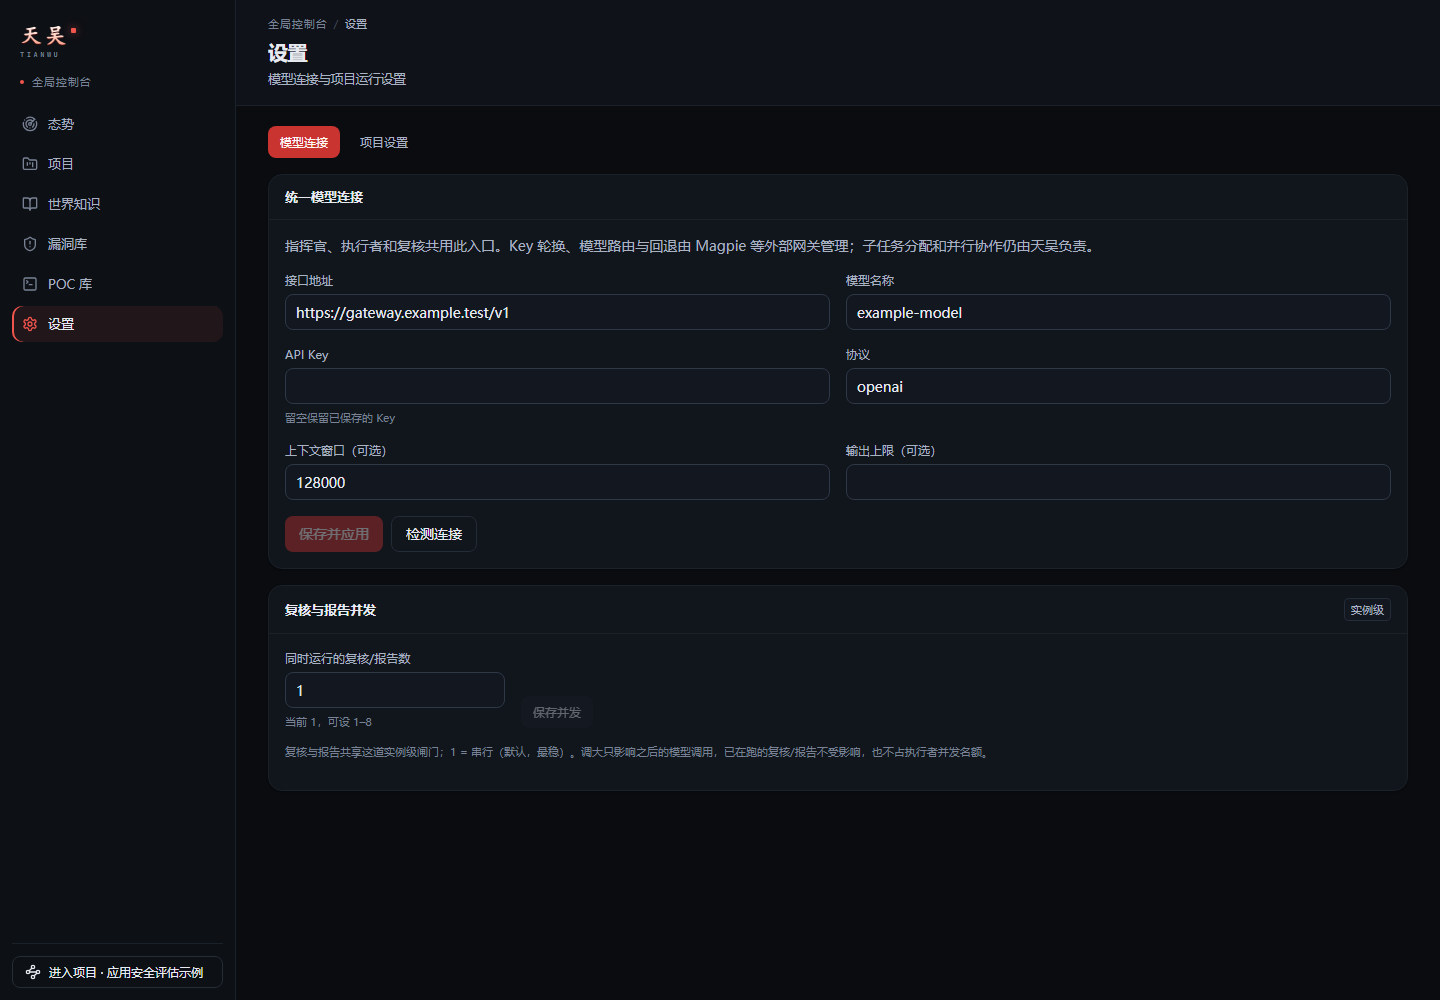
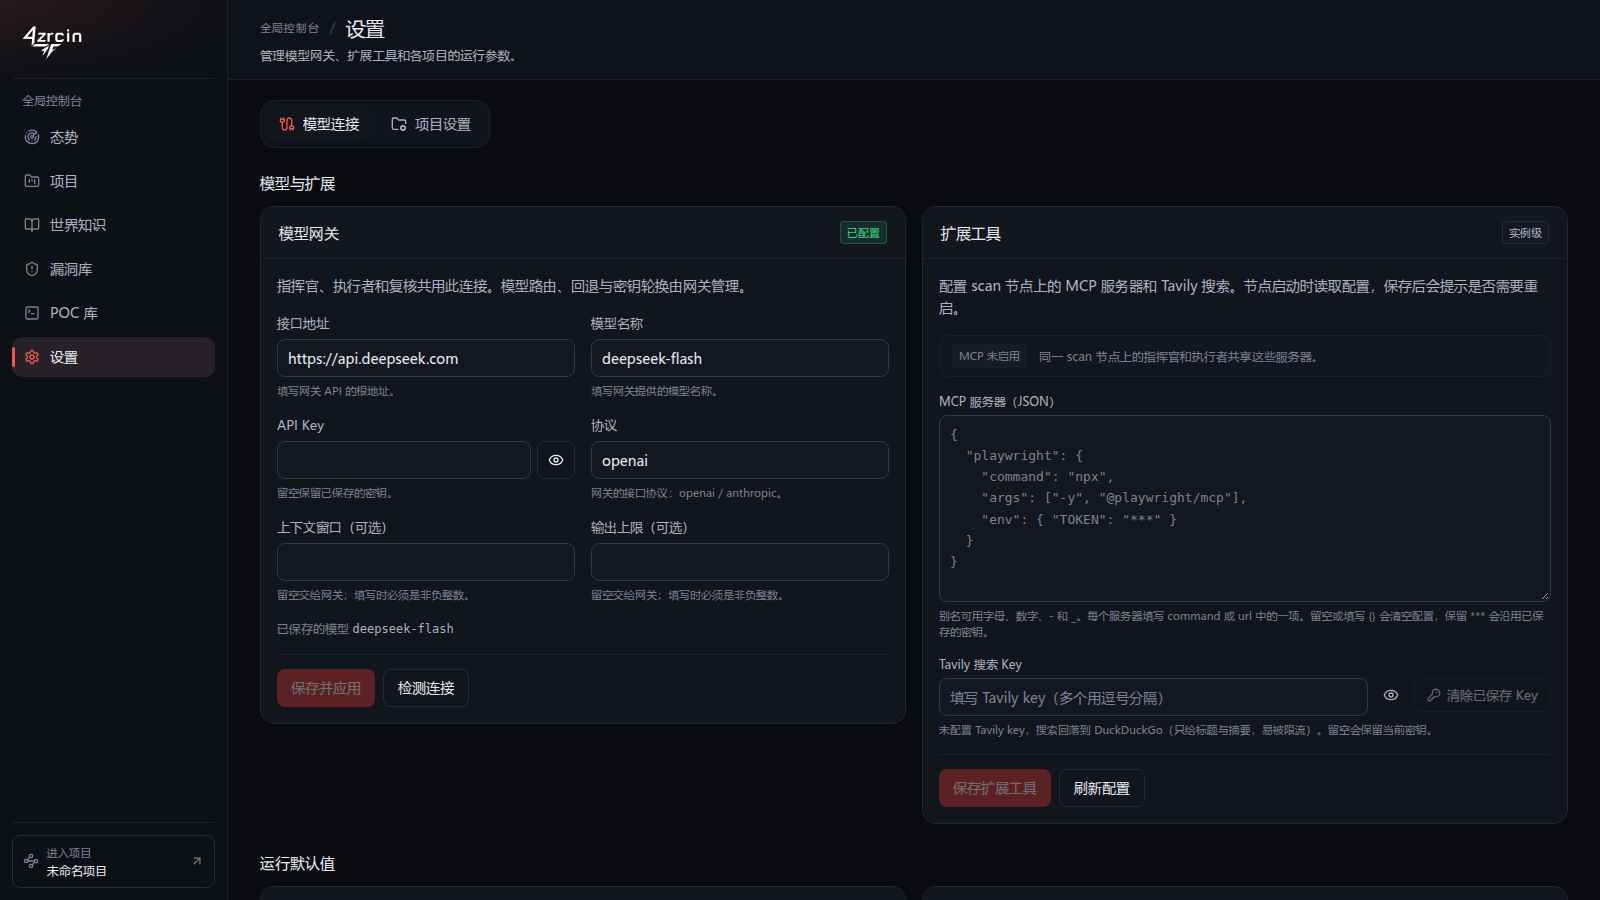
docs: refresh README with console screenshots and the current architecture
- README: five console screenshots (fleet, project overview, graph,
  execution-env nodes, model settings) in a new console section; the
  feature list gains the single-binary deployment, the scan recipe
  matrix with node-side fencing and sidecar evidence, and the
  capability routing; the architecture diagram now shows the embedded
  Hub inside bin/zrcin, the local sub-process and the remote
  --transport web agent with its full/capture recipes; the build
  section reflects the three harness artifacts and make scan-capture.
- docs/01 §1: the boundary text records the default single-binary form
  (--harness exec remains the escape hatch), the two node onboarding
  paths and the capture recipe's semantics; the mermaid diagram shows
  the embedded-Hub process, both node kinds, the sidecar handoff and
  the node-side fence/audit.

Screenshots taken from a live console (1600x900, dark theme).

diff --git a/docs/01-architecture.md b/docs/01-architecture.md
@@ -24,7 +24,7 @@
 
 ## 1. 系统边界
 
-4zrcin是单实例、单用户、多项目的授权安全测试平台，支持同一个原生 Hub 上的多个 scan 节点。`zrcin` 在一个进程内提供 HTTP API、Web 控制台、项目账本、调度与指挥官协调；独立构建的 cyber-harness fork 分为 Hub 与 cyber-scan：Hub 管理连接、模型配置和 AOP/IOA，scan 承载模型会话、工具、原生命令、Skill 发现和上下文压缩。HTTP 入口有请求头、读、写和空闲超时，并对请求体设上限：普通请求 16 MiB，唯一例外是 `/api/projects/import` 的项目包上传（4 GiB，且只在该路由、非 JSON 请求体时放宽；文件直接落到临时文件，不进入内存）。两者都先按声明的 Content-Length 拒绝，分块上传在越界读取时失败，避免慢客户端或无界 JSON 把一个 handler 变成资源出口。
+4zrcin是单实例、单用户、多项目的授权安全测试平台，支持同一个原生 Hub 上的多个 scan 节点。默认形态是**单二进制**：`bin/zrcin` 进程内嵌 Hub（M1），本机 scan 作为子进程拉起；`--harness` 参数保留 exec 子进程逃生舱。scan 节点两种接入：本机子进程（`local`）与远程 `agent --transport web` 自动发现（docs/14）；远程节点可用 **capture 配方**构建（`emptyresources captureonly`，裁掉扫描引擎与模板 bundle，保留流量代理、围栏判定、保底审计与证据 sidecar）——调度把隐式派发挡在 capture-only 节点之外，显式指派尊重操作员（docs/04 §3）。`zrcin` 在一个进程内提供 HTTP API、Web 控制台、项目账本、调度与指挥官协调；独立构建的 cyber-harness fork 分为 Hub 与 cyber-scan：Hub 管理连接、模型配置和 AOP/IOA，scan 承载模型会话、工具、原生命令、Skill 发现和上下文压缩。HTTP 入口有请求头、读、写和空闲超时，并对请求体设上限：普通请求 16 MiB，唯一例外是 `/api/projects/import` 的项目包上传（4 GiB，且只在该路由、非 JSON 请求体时放宽；文件直接落到临时文件，不进入内存）。两者都先按声明的 Content-Length 拒绝，分块上传在越界读取时失败，避免慢客户端或无界 JSON 把一个 handler 变成资源出口。
 
 4zrcin决定何时允许新一轮模型调用，记录任务及证据；模型决定测试策略和分工。控制面不内置固定攻击流程，不从运行日志推断漏洞，也不复制 harness 的工具、会话或压缩实现。
 
@@ -32,15 +32,21 @@
 flowchart TD
     UI[操作员 / Web 控制台] --> API[HTTP API 与权限边界]
     API --> Ledger[(各项目 SQLite 账本)]
-    API --> Dispatcher[准入与任务调度]
+    API --> Dispatcher[准入与任务调度<br/>节点能力路由：capture-only<br/>不接隐式派发]
     Events[项目事件 / 待办 / 心跳] --> Commander[指挥官协调器]
     Commander <--> Ledger
-    Commander --> Harness[本机 cyber-harness Hub]
+    subgraph ZRCIN["bin/zrcin 单进程（Hub 内嵌，--harness 可回退 exec）"]
+      Harness[cyber-harness Hub]
+    end
     Dispatcher --> Harness
-    Harness --> Scan[cyber-scan 节点 1..N]
-    Scan --> Worker[指挥官 / 多执行者会话 / 原生工具]
-    Worker --> Handoff[结构化声明与交接]
+    Harness --> Local["local scan<br/>本机子进程 · full 配方"]
+    Harness --> Remote["远程 scan agent<br/>--transport web 自动发现<br/>full 或 capture 配方"]
+    Local --> Worker[指挥官 / 多执行者会话 / 原生工具]
+    Remote --> Worker
+    Worker --> Handoff[结构化声明与交接<br/>证据 = Artifact sidecar 回传<br/>不依赖共享文件系统]
     Handoff --> Ledger
+    Local -.->|围栏判定 · 保底审计| Fence[scope_rules + guardrail]
+    Remote -.->|同左 · 节点侧执行| Fence
     Ledger --> Review[复核与报告]
     Review --> API
 ```
